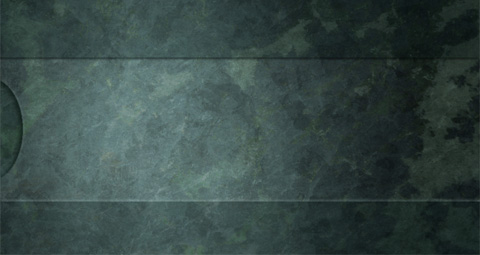
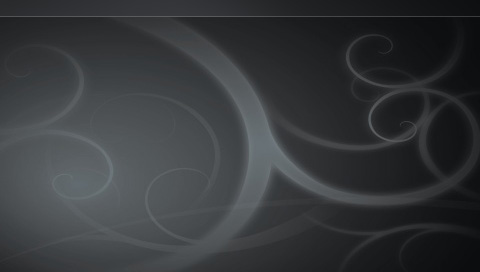
Jeck - Some theme work. Reverted default theme background. Added Jade theme, mana colors for Inverted. * In GuiBackground, we now load and use all of backdrop.jpg. This is for effects like that in Jade. It's an extremely minor change, so shouldn't effect stability.

diff --git a/projects/mtg/src/GuiBackground.cpp b/projects/mtg/src/GuiBackground.cpp
@@ -6,7 +6,7 @@ GuiBackground::GuiBackground()
 {
   JTexture* texture = resources.GetTexture("backdrop.jpg");
   if (texture)
-    quad = NEW JQuad(texture, 0, 0, 480, 255);
+    quad = NEW JQuad(texture, 0, 0, 480, 272);
   else
     {
       quad = NULL;
@@ -22,5 +22,5 @@ GuiBackground::~GuiBackground()
 void GuiBackground::Render()
 {
   JRenderer* renderer = JRenderer::GetInstance();
-  renderer->RenderQuad(quad, 0, 18);
+  renderer->RenderQuad(quad, 0, 0);
 }
